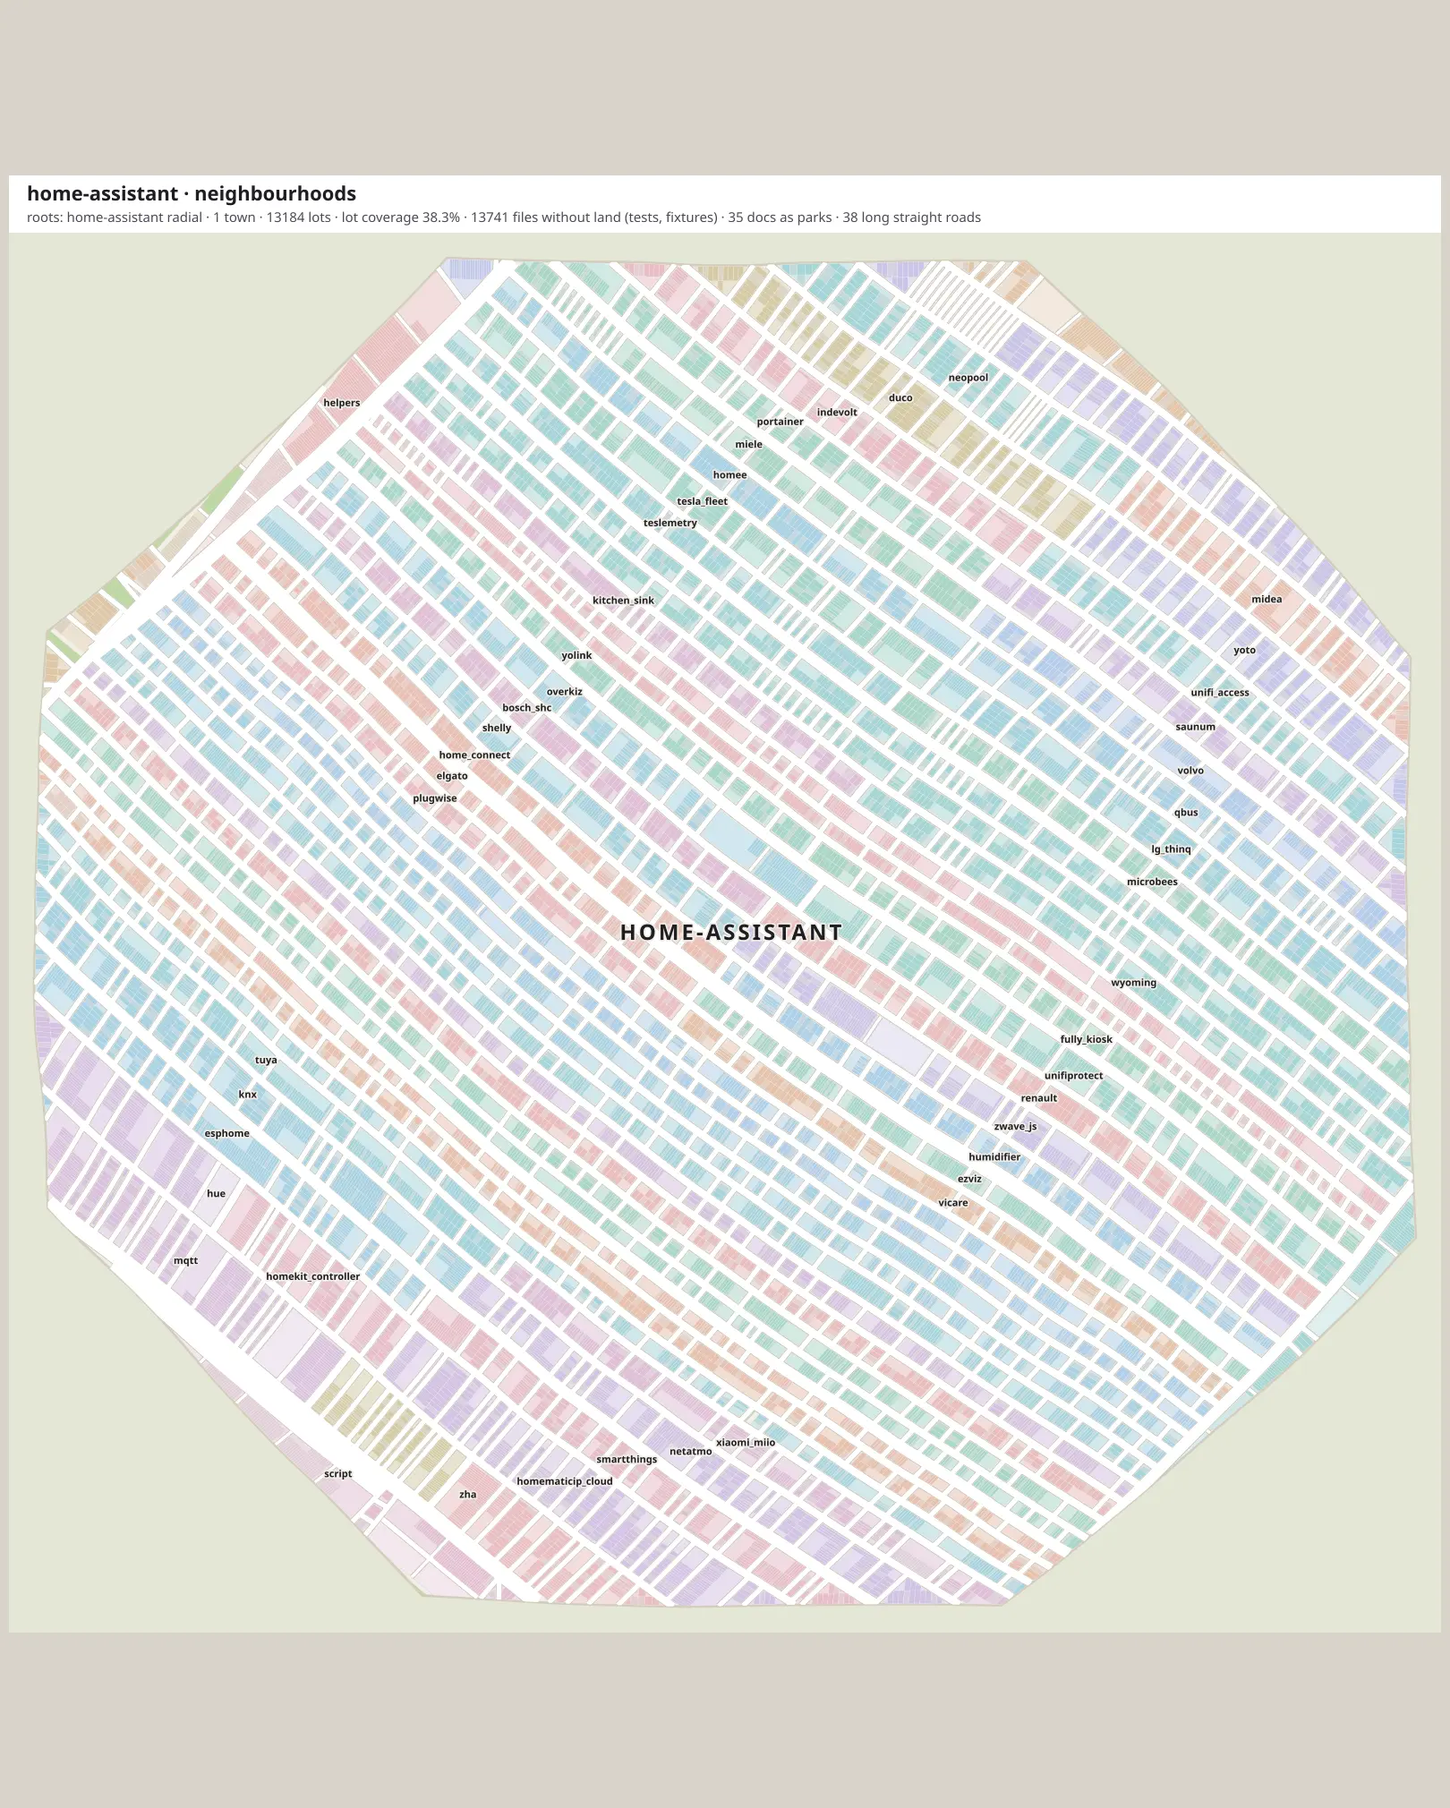
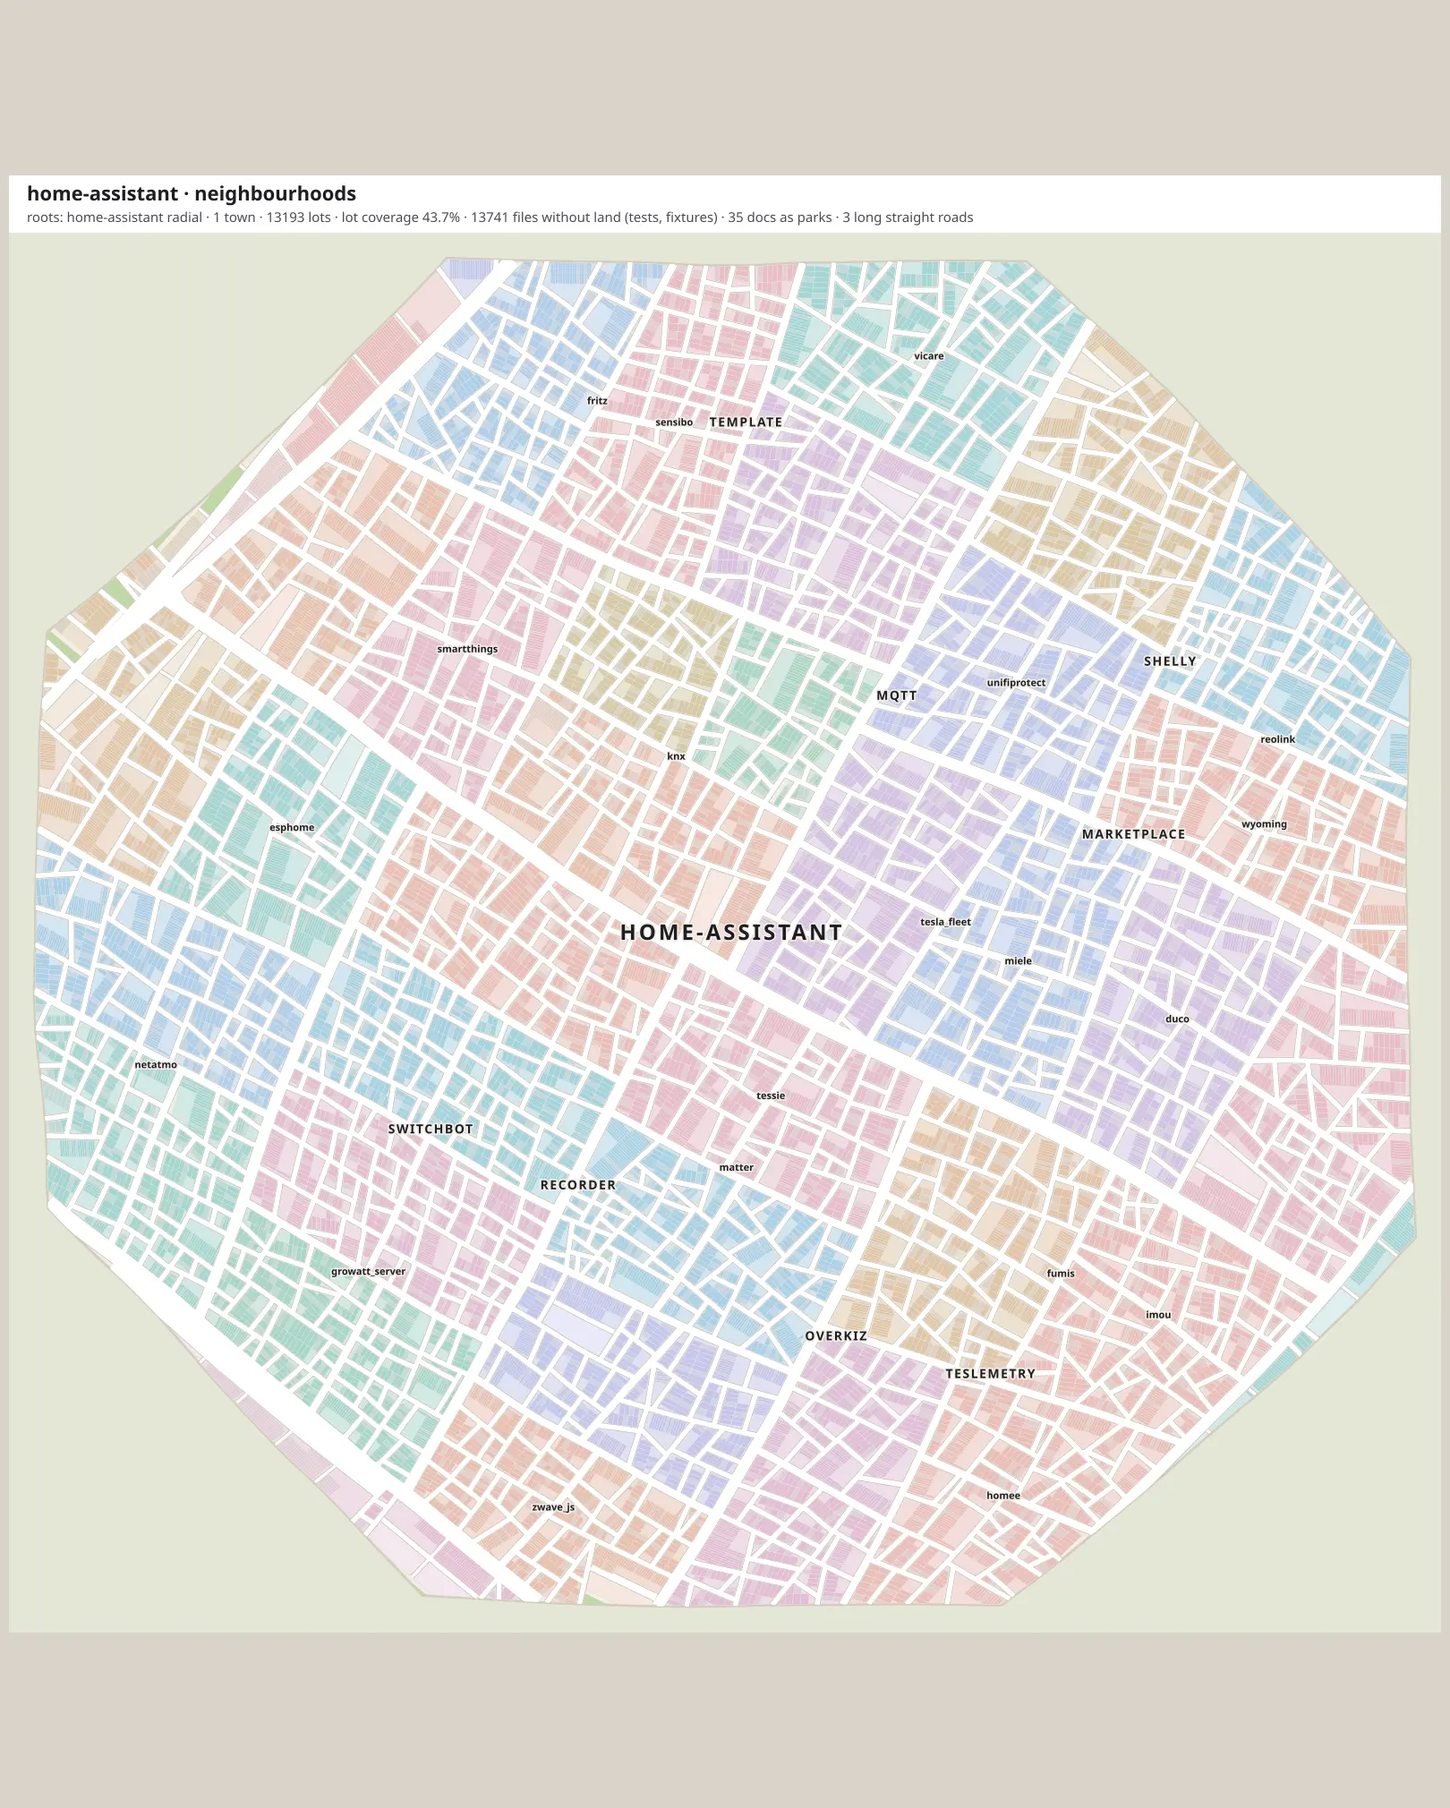
Drop the gridiron archetype

diff --git a/docs/research/city-layout/variants/town.ts b/docs/research/city-layout/variants/town.ts
@@ -45,10 +45,6 @@ const JOG = 3 * U;
 const MIN_JOG = 2 * U;
 /** A twin city's river width. */
 const RIVER = 2.5 * U;
-/** Folders per superblock in a superblock gridiron. */
-const SUPERBLOCK = 12;
-/** Column bands in a staggered gridiron. */
-const STAGGER_COLUMNS = 3;
 /** A radial core spans at most this share of the way to the edge, so the ring keeps room for its sectors. */
 const RADIAL_MAX_SCALE = 0.95; // a folder smaller than this many blocks is one neighbourhood
 /** Land uses that take no land unless the land dimension includes them. */
@@ -84,13 +80,6 @@ export interface RadialRecord {
   scale: number;
   caps: Record<string, number>;
 }
-/** A remembered gridiron: its axis and the item keys of each row; newcomers join the last row, the frontier. */
-export interface RowsRecord {
-  theta: number;
-  rows: string[][];
-  /** The column band of each row, for staggered grids. */
-  column?: number[];
-}
 /** A remembered neighbourhood: its grid origin, angle and pitch, its park strip, and the slot of every lot. */
 export interface GridRecord {
   theta: number;
@@ -122,7 +111,6 @@ export interface TownPlat {
   grids: Record<string, GridRecord>;
   shares: Record<string, ShareRecord[]>;
   forms: Record<string, Form>;
-  rows: Record<string, RowsRecord>;
   radial: Record<string, RadialRecord>;
 }
 export const emptyTownPlat = (): TownPlat => ({
@@ -134,7 +122,6 @@ export const emptyTownPlat = (): TownPlat => ({
   grids: {},
   shares: {},
   forms: {},
-  rows: {},
   radial: {},
 });
 
@@ -152,8 +139,6 @@ export interface Options {
   order: "centre-out" | "first-seen";
   /** Jogging cuts: long cuts whose sides split again become pinwheels round a plaza; everywhere or top-level only. */
   jog: "off" | "top-level" | "all";
-  /** How a gridiron lays its cells: rows of folders, staggered rows, superblocks of folders, or no gridiron. */
-  gridiron?: "rows" | "staggered" | "superblocks" | "off";
   warp: boolean;
 }
 
@@ -165,7 +150,7 @@ export interface Block {
   pts: Pt[];
   district: string;
   kind: "built" | "open" | "park" | "plaza";
-  /** The innermost district form round this block (radial, twin, gridiron, polycentric). */
+  /** The innermost district form round this block (radial, twin, polycentric). */
   form?: DistrictForm;
 }
 export interface Lot {
@@ -327,15 +312,6 @@ export function buildNodes(
 // Partition items: a child folder, a folder's own lots, or a folder's own park.
 type Item =
   | { kind: "folder"; node: Node; gross: number; mass: number; firstSeen: number; key: string }
-  | {
-      kind: "group";
-      items: Item[];
-      normal?: [number, number];
-      gross: number;
-      mass: number;
-      firstSeen: number;
-      key: string;
-    }
   | { kind: "lots"; lots: FileRecord[]; gross: number; mass: number; firstSeen: number; key: string; district: string }
   | { kind: "park"; gross: number; mass: number; firstSeen: number; key: string; district: string };
 
@@ -424,13 +400,11 @@ export function layoutTown(
   const forget = (path: string) => {
     for (const key of Object.keys(plat.cuts)) if (owned(key, path)) delete plat.cuts[key];
     for (const key of Object.keys(plat.grids)) if (owned(key, path)) delete plat.grids[key];
-    for (const key of Object.keys(plat.rows)) if (owned(key, path)) delete plat.rows[key];
     for (const key of Object.keys(plat.radial)) if (owned(key, path)) delete plat.radial[key];
   };
 
   const place = (poly: Poly, item: Item, district: string) => {
     if (item.kind === "folder") partition(item.node, poly, district);
-    else if (item.kind === "group") split(item.items, poly, item.mass, false, item.key, district, item.normal);
     else if (item.kind === "lots") neighbourhood(poly, item.lots, 0, item.key, item.district, "neighbourhood");
     else park(poly, item.district);
   };
@@ -670,18 +644,10 @@ export function layoutTown(
     return true;
   };
 
-  const split = (
-    items: Item[],
-    poly: Poly,
-    mass: number,
-    top: boolean,
-    key: string,
-    district: string,
-    normal?: [number, number],
-  ) => {
-    const decision = decide(items, poly, mass, top, key, normal);
+  const split = (items: Item[], poly: Poly, mass: number, top: boolean, key: string, district: string) => {
+    const decision = decide(items, poly, mass, top, key);
     if (!decision) return place(poly, items[0], district);
-    if (!normal && pinwheel(decision, poly, key, district)) return;
+    if (pinwheel(decision, poly, key, district)) return;
     const { rec: r, left, right } = decision;
     const seg = chord(poly.p, r.nx, r.ny, r.c);
     const major = r.cls !== "street" && r.cls !== "lane";
@@ -693,7 +659,7 @@ export function layoutTown(
     ];
     for (const [part, half, sub] of halves) {
       if (part.length === 0) reserve(half, district);
-      else split(part, half, massOf(part), false, sub, major ? seedOf(sub) : district, normal);
+      else split(part, half, massOf(part), false, sub, major ? seedOf(sub) : district);
     }
   };
 
@@ -748,8 +714,7 @@ export function layoutTown(
       const ordered = items.sort((a, b) => a.firstSeen - b.firstSeen || byPath(a.key, b.key));
       const done =
         (form === "radial" && radial(node, ordered, poly, district)) ||
-        (form === "twin" && twin(node, ordered, poly, district)) ||
-        (form === "gridiron" && gridiron(node, ordered, poly, district));
+        (form === "twin" && twin(node, ordered, poly, district));
       if (!done)
         split(
           options.order === "centre-out" ? centreOut(ordered) : ordered,
@@ -952,75 +917,6 @@ export function layoutTown(
    * Gridiron: comparable children in rows of cells, every cut square to one axis. Rows are remembered; newcomers join
    * the last row, the grid\x27s frontier.
    */
-  function gridiron(node: Node, items: Item[], poly: Poly, district: string): boolean {
-    const style = options.gridiron ?? "rows";
-    if (style === "off") return false;
-    let rec: RowsRecord | undefined = plat.rows[node.path];
-    if (!rec) {
-      const theta = longestEdgeAngle(poly.p);
-      const along = extent(poly.p, Math.cos(theta), Math.sin(theta));
-      const across = extent(poly.p, -Math.sin(theta), Math.cos(theta));
-      const ratio = (across[1] - across[0]) / Math.max(1, along[1] - along[0]);
-      // Superblocks: a grid of blocks that each hold a handful of folders; plain rows: a grid of single folders.
-      const cells = style === "superblocks" ? Math.ceil(items.length / SUPERBLOCK) : items.length;
-      const count = Math.max(1, Math.round(Math.sqrt(cells * ratio)));
-      const columns = style === "staggered" ? Math.max(1, Math.min(STAGGER_COLUMNS, Math.floor(cells / count))) : 1;
-      const rows: string[][] = [];
-      const column: number[] = [];
-      // Staggered: each column band takes its own number of rows, so row streets end at the column streets.
-      const perColumn = Math.ceil(items.length / columns);
-      for (let c = 0; c < columns; c++) {
-        const band = items.slice(c * perColumn, (c + 1) * perColumn);
-        const n = Math.max(1, count + (columns > 1 ? (c % 2 === 0 ? 0 : 1) : 0));
-        const per = Math.ceil(band.length / n);
-        for (let i = 0; i < band.length; i += per) {
-          rows.push(band.slice(i, i + per).map((x) => x.key));
-          column.push(c);
-        }
-      }
-      rec = { theta, rows, column };
-      plat.rows[node.path] = rec;
-    } else {
-      const known = new Set(rec.rows.flat());
-      const fresh = items.filter((i) => !known.has(i.key)).map((i) => i.key);
-      if (fresh.length) rec.rows[rec.rows.length - 1].push(...fresh);
-    }
-    const along: [number, number] = [Math.cos(rec.theta), Math.sin(rec.theta)];
-    const across: [number, number] = [-Math.sin(rec.theta), Math.cos(rec.theta)];
-    const byKey = new Map(items.map((x) => [x.key, x]));
-    const group = (members: Item[], key: string, normal?: [number, number]): Item => ({
-      kind: "group" as const,
-      items: members,
-      normal,
-      gross: demandOf(members),
-      mass: massOf(members),
-      firstSeen: Math.min(...members.map((m) => m.firstSeen)),
-      key,
-    });
-    const rowItems = (keys: string[], i: number): Item | undefined => {
-      const members = keys.map((k) => byKey.get(k)).filter((x): x is Item => x !== undefined);
-      if (members.length === 0) return undefined;
-      if (style !== "superblocks") return group(members, `${node.path}#row${i}`, along);
-      // A superblock is cut freely inside: its folders meet on local streets, not on the grid.
-      const blocks: Item[] = [];
-      for (let j = 0; j < members.length; j += SUPERBLOCK)
-        blocks.push(group(members.slice(j, j + SUPERBLOCK), `${node.path}#row${i}#block${j / SUPERBLOCK}`));
-      return group(blocks, `${node.path}#row${i}`, along);
-    };
-    const rows = rec.rows.map(rowItems);
-    const column = rec.column ?? rec.rows.map(() => 0);
-    const bands = [...new Set(column)].map((c) => {
-      const members = rows.filter((r, i): r is Item => r !== undefined && column[i] === c);
-      return members.length ? group(members, `${node.path}#column${c}`, across) : undefined;
-    });
-    const groups = bands.filter((b): b is Item => b !== undefined);
-    if (groups.length === 0) return false;
-    if (groups.length === 1 && groups[0].kind === "group")
-      split(groups[0].items, poly, node.mass, true, node.path, district, across);
-    else split(groups, poly, node.mass, true, node.path, district, along);
-    return true;
-  }
-
   function park(poly: Poly, district: string) {
     const p = inset(poly, PAVEMENT);
     if (p.p.length >= 3) town.blocks.push({ pts: p.p, district, kind: "park" });

diff --git a/docs/research/city-layout/variants/towns.ts b/docs/research/city-layout/variants/towns.ts
@@ -73,15 +73,6 @@ const SECTIONS: Record<string, { repos: string[]; shots: Shot[] }> = {
       { caption: "by district form", options: BASE, camera: "plan", colourBy: "form" },
     ],
   },
-  gridiron: {
-    repos: ["home-assistant", "react", "next.js"],
-    shots: [
-      { caption: "A: rows of single folders (now)", options: { ...BASE, gridiron: "rows" }, camera: "plan" },
-      { caption: "B: staggered rows", options: { ...BASE, gridiron: "staggered" }, camera: "plan" },
-      { caption: "C: superblocks of 12 folders", options: { ...BASE, gridiron: "superblocks" }, camera: "plan" },
-      { caption: "D: no gridiron (recursive cuts)", options: { ...BASE, gridiron: "off" }, camera: "plan" },
-    ],
-  },
   jog: {
     repos: ["next.js", "react", "home-assistant", "takken.io"],
     shots: [
@@ -119,7 +110,7 @@ for (const name of sectionArg === "all" ? Object.keys(SECTIONS) : [sectionArg]) 
       const region = regions[i];
       const stats = regionStats(region);
       const forms = [...new Set(region.towns.map((t) => `${t.name} ${t.form}`))].join(", ");
-      const legend = shot.colourBy === "form" ? " · radial orange, twin blue, gridiron violet, polycentric rose" : "";
+      const legend = shot.colourBy === "form" ? " · radial orange, twin blue, polycentric rose" : "";
       const subtitle = `roots: ${forms}${legend} · ${region.towns.length} town${region.towns.length > 1 ? "s" : ""} · ${stats.lots} lots · lot coverage ${stats.lotCoverage}% · ${region.tests} files without land (${shot.options.noLand.join(", ")}) · ${region.docs} docs as parks · ${stats.longStraightRoads} long straight roads`;
       const svg = join(workDir, `${repo}-${i}.svg`);
       const png = join(workDir, `${repo}-${i}.png`);

diff --git a/docs/research/city-layout/variants/archetype.ts b/docs/research/city-layout/variants/archetype.ts
@@ -2,7 +2,7 @@
 // Small folders flatten into one of three neighbourhood forms; larger ones take a district form that arranges children.
 
 export type FlatForm = "hamlet" | "street-village" | "neighbourhood";
-export type DistrictForm = "radial" | "twin" | "gridiron" | "polycentric";
+export type DistrictForm = "radial" | "twin" | "polycentric";
 export type Form = FlatForm | DistrictForm;
 
 export const FLAT_FORMS: FlatForm[] = ["hamlet", "street-village", "neighbourhood"];
@@ -44,7 +44,6 @@ export function features(mass: number, childMasses: number[], lots: number): Fea
 const RULES: { form: DistrictForm; margin: (f: Features) => number }[] = [
   { form: "radial", margin: (f) => f.s1 - 0.6 },
   { form: "twin", margin: (f) => Math.min(f.s2 - 0.3, f.s1 + f.s2 - 0.75) },
-  { form: "gridiron", margin: (f) => Math.min(Math.log(f.neff / 7), 0.25 - f.s1) },
   { form: "polycentric", margin: () => 1 },
 ];
 const STAY = 0.15;

diff --git a/docs/research/city-layout/variants/render-town.ts b/docs/research/city-layout/variants/render-town.ts
@@ -48,11 +48,10 @@ const DRACULA_ACCENTS = ["#BD93F9", "#FF79C6", "#8BE9FD", "#50FA7B", "#FFB86C", 
 const accentOf = (key: string) => DRACULA_ACCENTS[fnv1a(key) % DRACULA_ACCENTS.length];
 
 /** District forms on the archetype sheets: hues clear of the park greens, one per form. */
-export const FORM_HUE: Record<string, number> = { radial: 55, twin: 235, gridiron: 300, polycentric: 15 };
+export const FORM_HUE: Record<string, number> = { radial: 55, twin: 235, polycentric: 15 };
 const FORM_ACCENT: Record<string, string> = {
   radial: "#FFB86C",
   twin: "#8BE9FD",
-  gridiron: "#BD93F9",
   polycentric: "#FF79C6",
 };
 

diff --git a/docs/research/city-layout/variants/serve.ts b/docs/research/city-layout/variants/serve.ts
@@ -49,7 +49,6 @@ const SECTION_TITLES: Record<string, string> = {
   towns: "Towns (plan)",
   hero: "Hero (2:1 dimetric)",
   forms: "Archetypes",
-  gridiron: "Gridiron options",
   jog: "Jogging cuts",
   land: "Land dimension",
   themes: "Themes",

diff --git a/docs/research/city-layout/variants/README.md b/docs/research/city-layout/variants/README.md
@@ -116,26 +116,26 @@ Top-level only keeps STATE A's straight streets inside districts and breaks only
 
 `archetype.ts` classifies each folder with hysteresis (spec: Archetypes). Flattened folders become a hamlet round
 a green, a street village along a high street, or a plain neighbourhood; larger folders arrange their children as
-radial (ring road, spokes, convex sectors), twin (two banks of a river, one or two bridges), gridiron (remembered
-rows of square cells) or polycentric (the recursive cuts). `img/towns-forms-<repo>.webp` shows each map beside the
-same map coloured by form: radial orange, twin blue, gridiron violet, polycentric rose.
+radial (ring road, spokes, convex sectors), twin (two banks of a river, one or two bridges) or polycentric (the recursive cuts). `img/towns-forms-<repo>.webp` shows each map beside the
+same map coloured by form: radial orange, twin blue, polycentric rose.
 
 | Repo           | Lots   | Coverage | Local streets | Long straight roads | Without room |
 | -------------- | ------ | -------- | ------------- | ------------------- | ------------ |
 | takken.io      | 244    | 22.1%    | 88%           | 9                   | 0            |
-| react          | 2,003  | 27.7%    | 64%           | 8                   | 21           |
-| next.js        | 7,985  | 34.6%    | 72%           | 34                  | 55           |
-| home-assistant | 13,184 | 38.3%    | 51%           | 38                  | 22           |
-| rust           | 6,194  | 29.5%    | 58%           | 10                  | 66           |
+| react          | 2,019  | 32.9%    | 65%           | 6                   | 5            |
+| next.js        | 8,011  | 35.3%    | 79%           | 18                  | 29           |
+| home-assistant | 13,193 | 43.7%    | 79%           | 3                   | 13           |
+| rust           | 6,209  | 28.2%    | 64%           | 5                   | 51           |
 
-- Roots: react radial with a gridiron `packages` town; next.js a twin; home-assistant radial round a gridiron of
-  integrations; takken.io and redux polycentric; rust polycentric.
-- Gridirons trade the local streets for long straight rows: home-assistant goes from 3 to 38 long straight roads.
+- Roots: react radial; next.js a twin; home-assistant radial; takken.io, redux and rust polycentric.
+- A gridiron was tried and dropped (commit 7f3ecdb, `img/towns-gridiron-<repo>.webp`): rows of single folders,
+  staggered rows and superblocks of 12 folders against recursive cuts. Rows turned home-assistant into stripes, 38
+  long straight roads against 3; recursive cuts read best on every repo and leave the fewest lots without room.
 - A town whose root switches form is frozen as an old town where it stood, dashed, its lots lit while their files
   live; the new town grows beside it (`img/towns-plat-takken.io.webp`: takken.io in 2024).
 - The root's form is classified over the whole repository, so a young new town keeps it: one old town, not four.
 - Stability holds: React 0.2% per commit and 2.8% on deleting commits; takken.io 0.7% and 4.7%; next.js 0% and
-  0.1%; home-assistant 0% and 0%; redux 0.5% and 13.1%.
+  0.1%; home-assistant 0% and 0.1%; redux 0.5% and 13.1%.
 
 ## Sheets
 

diff --git a/docs/specs/006-ground-plan/ground-plan.md b/docs/specs/006-ground-plan/ground-plan.md
@@ -124,7 +124,7 @@ is therefore readable as distance from the core, and newcomers join the edges.
 
 ## Archetypes
 
-- Each folder has a form (hamlet, street village, archipelago, radial, twin, gridiron, polycentric) and a tier by
+- Each folder has a form (hamlet, street village, archipelago, radial, twin, polycentric) and a tier by
   decade of mass (hamlet under 30, village under 300, town under 3,000, city under 30,000, metropolis above).
 - Features are continuous; the choice uses a Schmitt trigger: a challenger enters at margin 0 or more, the incumbent
   stays down to -0.15, and a switch needs +0.1. Tiers move up at the threshold times 1.25 and down at the threshold
@@ -141,8 +141,8 @@ is therefore readable as distance from the core, and newcomers join the edges.
     convex. It needs three or more ring items and sectors under 171°, and otherwise falls back to polycentric.
   - **twin**: the two heaviest children on either bank of a river 2.5 u wide, the rest joining the lighter bank in age
     order; one bridge, or two on a river longer than 12 u.
-  - **gridiron**: rows of cells, every cut square to one axis; rows are remembered and newcomers join the last row.
-  - **polycentric**: recursive cuts, as in Structure.
+  - **polycentric**: recursive cuts, as in Structure. Many similar children (integrations, examples) take this form
+    too: there is no gridiron, as rows of single folders read as stripes of long straight roads.
 - Archipelago is the region's form: workspace groups become towns (Edges and open land).
 
 ## Edges and open land
